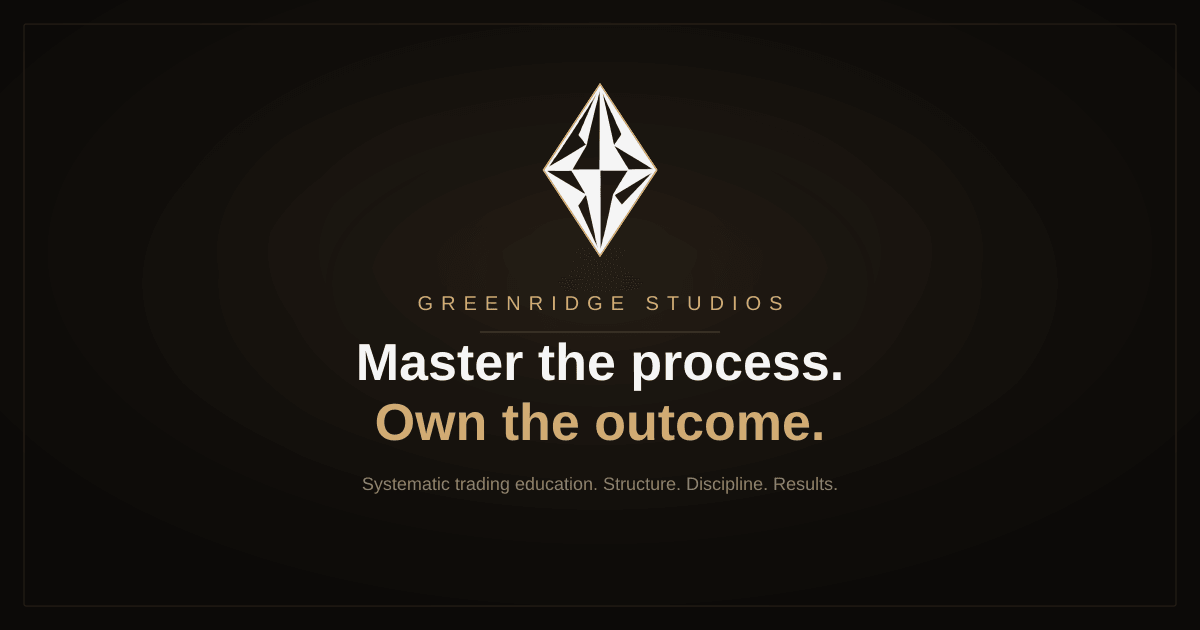
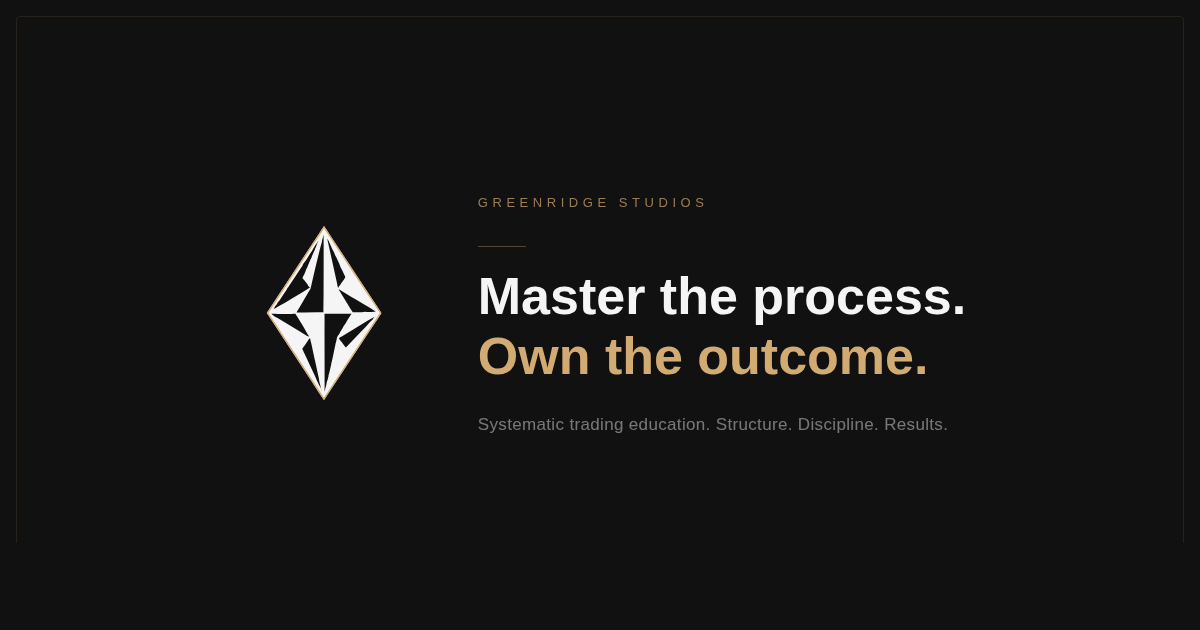
Redesign embed image: larger elements, no glow, flat background
Rebuilt OG embed image with side-by-side layout — logo left,
text right. Flat #111 background, no radial glow. All elements
scaled up for better readability in small previews. Bump cache
buster to v=4.

Changed region(s): [[0.2158, 0.3619, 0.8017, 0.7238], [0.4008, 0.1206, 0.5858, 0.4222], [0.3083, 0.754, 0.7092, 0.7841]]

diff --git a/index.html b/index.html
@@ -12,18 +12,18 @@
     <meta property="og:type" content="website" />
     <meta property="og:url" content="https://greenridgestudios.com/" />
     <link rel="canonical" href="https://greenridgestudios.com/" />
-    <meta property="og:image" content="https://greenridgestudios.com/embed_image.png?v=3" />
-    <meta property="og:image:secure_url" content="https://greenridgestudios.com/embed_image.png?v=3" />
+    <meta property="og:image" content="https://greenridgestudios.com/embed_image.png?v=4" />
+    <meta property="og:image:secure_url" content="https://greenridgestudios.com/embed_image.png?v=4" />
     <meta property="og:image:type" content="image/png" />
     <meta property="og:image:width" content="1200" />
     <meta property="og:image:height" content="630" />
     <meta property="og:image:alt" content="Greenridge Studios — Master the process. Own the outcome." />
-    <link rel="image_src" href="https://greenridgestudios.com/embed_image.png?v=3" />
+    <link rel="image_src" href="https://greenridgestudios.com/embed_image.png?v=4" />
 
     <meta name="twitter:card" content="summary_large_image" />
     <meta name="twitter:site" content="@thestudiotraders" />
-    <meta name="twitter:image" content="https://greenridgestudios.com/embed_image.png?v=3" />
-    <meta name="twitter:image:src" content="https://greenridgestudios.com/embed_image.png?v=3" />
+    <meta name="twitter:image" content="https://greenridgestudios.com/embed_image.png?v=4" />
+    <meta name="twitter:image:src" content="https://greenridgestudios.com/embed_image.png?v=4" />
     <link rel="icon" type="image/svg+xml" href="/favicon.svg" />
     <link rel="apple-touch-icon" href="/apple-touch-icon.png" />
   </head>